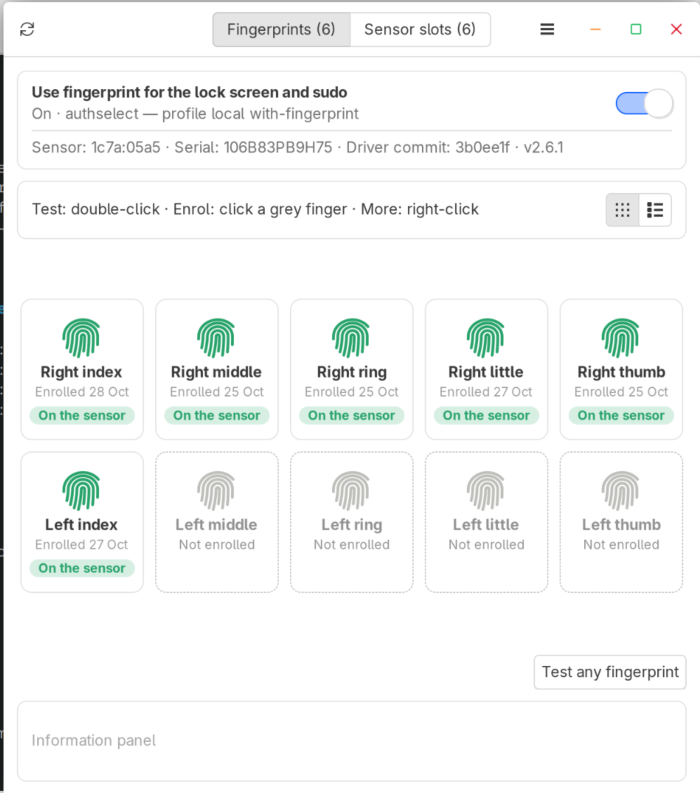
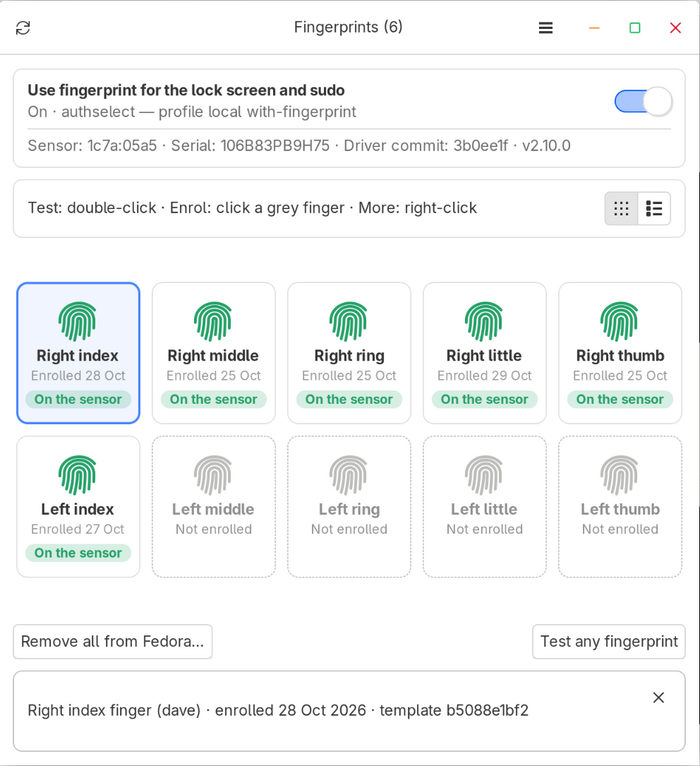
README: new Fingerprints and Sensor slots pictures; the ☰ menu in both modes
Claude-Session: https://claude.ai/code/session_01VcMedtUznNVQTouJEiiEh4

diff --git a/README.md b/README.md
@@ -181,8 +181,8 @@ A small window for your fingerprints and the sensor, in the app menu as **Galaxy
 > - **Clearing a slot** (Sensor slots tab) erases the fingerprint itself, for every install. It can't be undone: that finger has to be enrolled again.
 
 <p>
-  <img src="images/fingerprint-manager.png" width="350" alt="Fingerprints tab: six of ten fingers enrolled, on the sensor">
-  <img src="images/fingerprint-manager-sensor.png" width="350" alt="Sensor slots tab: six of ten slots used, five of them also used by four other distros">
+  <img src="images/fingerprint-manager.png" width="350" alt="Fingerprints tab with one distro: six of ten fingers enrolled and on the sensor, Remove all from Fedora at the bottom, and the right index finger's details in the information panel">
+  <img src="images/fingerprint-manager-sensor.png" width="350" alt="Sensor slots tab in multi-distro mode: six of ten slots used, five of them also used by four other distros, Other distros at the bottom, and a slot's details in the information panel">
 </p>
 <p>
   <img src="images/fingerprint-manager-enrol.png" width="350" alt="Enrolling the left middle finger: lift and touch again, 9 of 16 touches">
@@ -361,6 +361,16 @@ The check is a small Python program (`lib/sensor-check.py`) that uses whichever 
 Everything above is all one distro needs. This section is for laptops with **several Linux distros** using the one sensor.
 
 **The Galaxy Book Fingerprint Manager switches to multi-distro mode by itself.** Each distro that runs it notes itself (and where it's installed: its partition) in one file on the EFI partition, `EFI/samsung-galaxybook/fingerprint-slots.json`, which every OS on the laptop shares and which survives reinstalling a distro. Each time the Manager opens, it reads that file and checks the other distros still exist: one whose partition has been deleted or reformatted (reinstalled) is no longer listed, and a short message says so. A distro on a second drive that isn't connected is left as it is. As soon as another distro is found, the multi-distro parts appear: the **Sensor slots** tab, and in the ☰ menu **Import from other distros…**, **Back up & restore…** and **Reset <distro>…**. When the others are gone, it goes back to single-distro mode. (`galaxybook-fingerprint-manager --single-distro` shows the single-distro layout anyway, e.g. to try it; only what's shown changes.)
+
+<details>
+<summary>The ☰ menu with one distro, and in multi-distro mode</summary>
+
+<p>
+  <img src="images/fingerprint-manager-menu-single.png" width="240" alt="The menu with one distro: Restore Fedora fingerprints, Show sensor slots, Check for new versions, Remind me about Windows, Test your distro's driver, About">
+  <img src="images/fingerprint-manager-menu-multi.png" width="240" alt="The menu in multi-distro mode: adds Import from other distros, Back up and restore, and Reset Fedora; Show sensor slots isn't needed, as the tab is always there">
+</p>
+
+</details>
 
 ### Sharing Fingerprints
 
